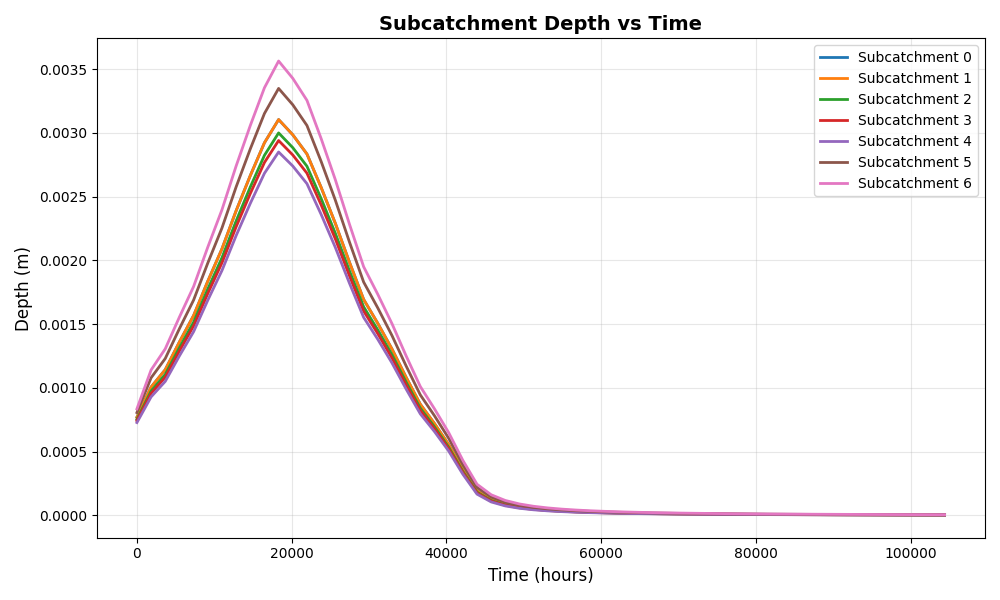
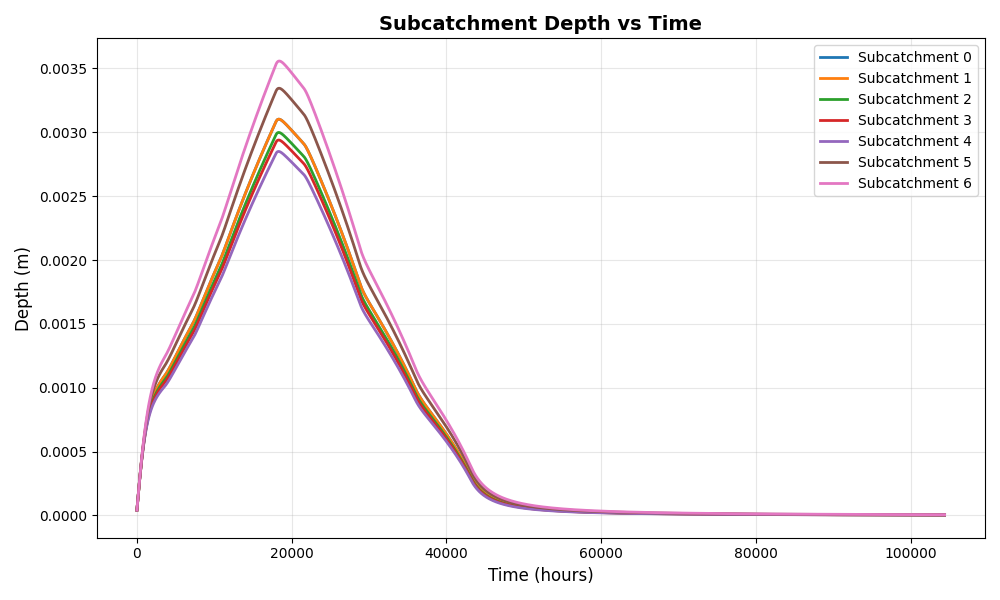
Created a bunch of visualizations and did the other geometry

Changed region(s): [[0.124, 0.09, 0.589, 0.87], [0.062, 0.09, 0.093, 0.15], [0.062, 0.54, 0.093, 0.57]]

diff --git a/app/streetGeometry.py b/app/streetGeometry.py
@@ -1,4 +1,14 @@
 import numpy as np
+import scipy as sp
+from . import circleTable
+from pprint import pprint
+from sys import platform
+import matplotlib
+if platform == "linux":
+    matplotlib.use('module://matplotlib-backend-kitty')
+import matplotlib.pyplot as plt
+
+from . import A_tbl, R_tbl, STREET_Y_FULL, STREET_LANE_SLOPE
 
 def depthFromAreaStreet(A, A_tbl, Y_full):
     """
@@ -137,7 +147,7 @@ def psiFromAreaStreet(A, A_tbl, R_tbl, Y_full):
     # Section factor
     Psi = A * (RY)**(2/3)
     
-    return max(Psi,1e-8)
+    return max(Psi,1e-10)
 
 def psiPrimeFromAreaStreet(A, A_tbl, R_tbl, Y_full):
     """
@@ -187,3 +197,50 @@ def psiPrimeFromAreaStreet(A, A_tbl, R_tbl, Y_full):
     dPsi = (Psi_p - Psi_m) / (2 * dA)
     
     return dPsi
+
+
+def plotStreetFunctions(diam):
+    "Creates plots to show Geometric Functions in terms of cross sectional area."
+    Afull = A_tbl[-1]
+    res = 1000 # plot resolution
+    As = np.linspace(0,1,res)
+    Ys = [depthFromAreaStreet(a*Afull, A_tbl, diam) / diam for a in As]
+
+    # Get PsiFull
+    
+    Rfull = 0.25 * diam
+    PsiFull = Afull * np.power(Rfull,2/3)
+    # TODO: Change or remove this 
+    PsiPrimeFull = 1
+
+    Psis = [psiFromAreaStreet(a*Afull, A_tbl, R_tbl, diam) for a in As]
+    PsiFull = max(Psis)
+    Psis = np.array(Psis) / PsiFull
+    # Here incase they ask about hydraulicRadius
+    Hs = [R_of_Y(a*Afull, R_tbl, depthFromAreaStreet(a*Afull, A_tbl, diam)) / R_tbl[-1] for a in As]
+    PsiPrimes = [psiPrimeFromAreaStreet(a*Afull, A_tbl, R_tbl, diam) / PsiPrimeFull for a in As]
+
+
+
+    plt.plot(As,Ys, label="d / d_full", color="blue")
+    plt.plot(As,Psis, label="Psi / Psi_full", color="red")
+    # plt.plot(As,Hs, label="H / H_full", color="purple")
+    # plt.plot(As,PsiPrimes, label="Psi' / Psi'_full", color="purple")
+    plt.legend()
+    plt.grid(True)
+    plt.xlabel("A/A_full")
+    # plt.ylabel("Y/Yfull")
+    plt.title("Street Geometry from Cross Sectional Area")
+
+    plt.savefig(f"figures/streetGeometry.png")
+    plt.show()
+
+    
+
+    
+
+
+if __name__ == "__main__":
+    pprint("Don't call this directly. Or, if you want the geometry plots uncomment the code.")
+    plotStreetFunctions(A_tbl[-1])
+

diff --git a/app/example.py b/app/example.py
@@ -110,7 +110,7 @@ def example(file, rainfall, rainfallTimes, dt, createVisuals=True):
 if __name__ == "__main__":
     spaceConversion=0.0254
     timeConversion=3600
-    dt = 1800
+    dt = 60
     rainfall = np.array([0.10, 0.15, 0.25, 0.40, 0.60, 0.80, 0.70, 0.50, 0.30, 0.20, 0.10, 0.05, 0.0,0.0,0.0,0.0,0.0,0.0, 0.0,0.0,0.0,0.0,0.0,0.0, 0.0,0.0,0.0,0.0,0.0,0.0])
     # rainfall = np.array([0.10, 0.15, 0.25, 0.40, 0.60, 0.80, 0.70, 0.50, 0.30, 0.20, 0.10, 0.05])
     # rainfall = [0.0,0.5,1.0,0.75,0.5]
@@ -118,6 +118,7 @@ if __name__ == "__main__":
     # rainfall, rainfallTimes = normalizeRainfall(rainfall, rainfallTimes, spaceConversion=0.0254, timeConversion=3600)
     rainfall, rainfallTimes = normalizeRainfall(rainfall, rainfallTimes, spaceConversion, timeConversion)
 
-    file = "largerExample"
+    file = "doubled_largerExample"
+    # file = "largerExample"
     example(file, rainfall, rainfallTimes, dt, createVisuals=True)
 

diff --git a/app/visualize.py b/app/visualize.py
@@ -82,6 +82,9 @@ def createFrame(subcatchment, street, streetYFull, sewer, sewerYFull, subcatchme
     # norm = plt.Normalize(vmin=0,vmax=max(streetYFull,sewerYFull))
 
     # edge_colors = [cmap(norm(w)) for w in weights]
+    # NOTE: This is very hacky but I dont want to chase down the bug
+    if it >= len(subcatchmentDepths):
+        it = it - 1
     subcatchmentNodesColors = [cmap(norm(w)) for w in subcatchmentDepths[it]]
     runoffsColors = [cmap(normRunoff(w)) for w in runoffs[it]]
     streetNodesColors = [cmap(norm(w)) for w in streetDepths[it]]

diff --git a/app/circularGeometry.py b/app/circularGeometry.py
@@ -8,7 +8,6 @@ if platform == "linux":
     matplotlib.use('module://matplotlib-backend-kitty')
 import matplotlib.pyplot as plt
 
-from .streetGeometry import depthFromAreaStreet, psiFromAreaStreet, psiPrimeFromAreaStreet
 from . import A_tbl, R_tbl, STREET_Y_FULL, STREET_LANE_SLOPE
 
 CIRCLE_N = 51
